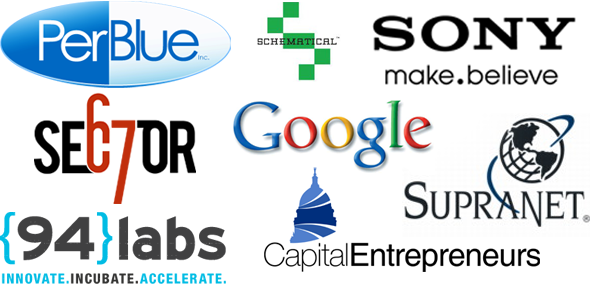
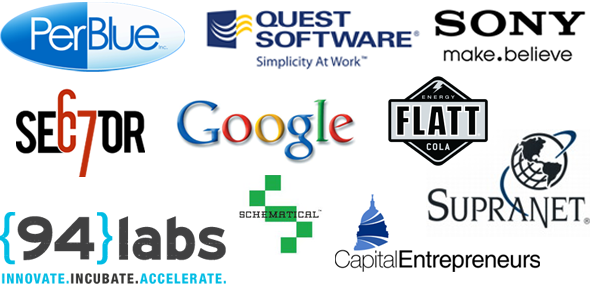
Updated sponsors

diff --git a/public/index.html b/public/index.html
@@ -78,16 +78,18 @@
 		<div class="box_bottom_left">
 		  <h1>The Sponsors</h1>
 		  <img src="bmsponsors.png" usemap="#sponsors" alt="Build Madison Sponsors" />
-		  <map name="sponsors">
-		  <area shape="rect" alt="Sector67" title="Sector67" coords="5,91,216,209" href="http://www.sector67.org/" />
-		  <area shape="rect" alt="PerBlue" title="PerBlue" coords="2,2,232,87" href="http://www.perblue.com" />
-		  <area shape="rect" alt="Schematical" title="Schematical" coords="244,2,351,93" href="http://www.schematical.com/" />
-		  <area shape="rect" alt="Sony Creative Software" title="Sony Creative Software" coords="368,3,572,94" href="http://www.sonycreativesoftware.com/" />
-		  <area shape="poly" alt="Capital Entrepreneurs" title="Capital Entrepreneurs" coords="261,277,552,273,523,237,352,223,321,168,289,177" href="http://www.capitalentrepreneurs.com" />
-		  <area shape="poly" alt="SupraNet" title="SupraNet" coords="504,111,580,112,577,223,393,221,393,183,450,176,486,139" href="http://www.supranet.net/" />
-		  <area shape="rect" alt="94 Labs" title="94 Labs" coords="10,218,219,282" href="http://www.94labs.com/" />
-		  <area shape="rect" alt="Google" title="Google" coords="227,99,445,169" href="http://www.google.com/" />
-		  </map>
+      <map id="sponsors" name="sponsors">
+        <area shape="rect" alt="" title="" coords="1,1,197,74" href="http://www.perblue.com" target="" />
+        <area shape="rect" alt="Quest Software" title="" coords="207,5,401,65" href="http://www.quest.com/" target="" />
+        <area shape="rect" alt="Sony" title="" coords="427,3,587,67" href="http://www.sonycreativesoftware.com/" target="" />
+        <area shape="rect" alt="Sector 67" title="" coords="5,83,152,177" href="http://www.sector67.org/" target="" />
+        <area shape="rect" alt="Google" title="" coords="170,94,363,164" href="http://www.google.com/" target="" />
+        <area shape="rect" alt="Flatt Cola" title="" coords="382,75,490,168" href="http://www.flattcola.com/" target="" />
+        <area shape="rect" alt="Schematical" title="" coords="231,173,320,263" href="http://www.schematical.com/" target="" />
+        <area shape="rect" alt="94 Labs" title="" coords="3,203,226,282" href="http://www.94labs.com/" target="" />
+        <area shape="poly" alt="Capital Entrepreneurs" title="" coords="327,193,401,182,399,231,544,247,549,275,327,272,326,226,326,190,324,187" href="http://www.capitalentrepreneurs.com" target="" />
+        <area shape="poly" alt="SupraNet" title="" coords="503,123,583,121,584,229,416,224,415,188,495,177" href="http://www.supranet.net/" target="" />
+      </map>
 		</div>
 	</div>
 	
